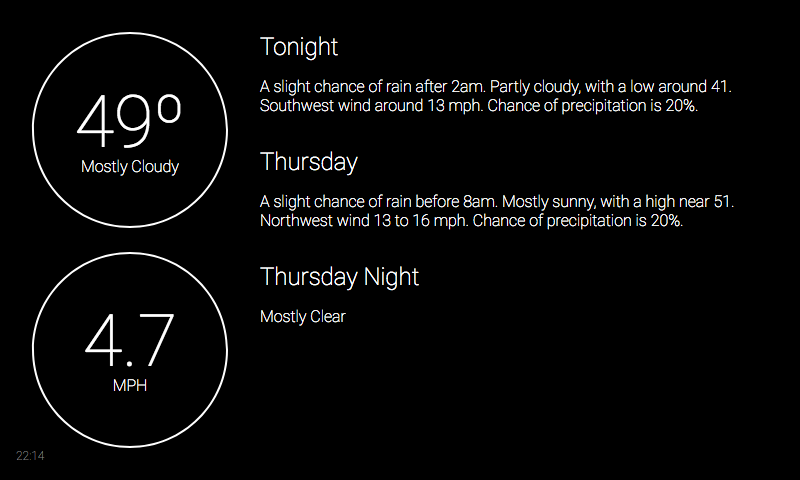
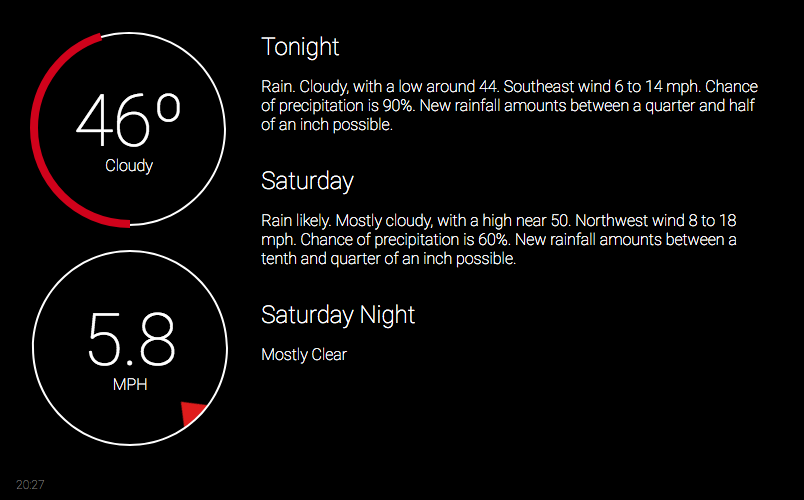
Add relative humidity indicator. Fixes #8

diff --git a/index.html b/index.html
@@ -48,11 +48,25 @@
 
             #temperature {
                 border: 2px solid #ffffff;
-                height: 192px;
-                width: 192px;
+                height: 190px;
+                width: 190px;
                 border-radius: 50%;
                 display: flex;
                 align-items: center;
+                position: relative;
+            }
+
+            #humidity {
+                position: absolute;
+                height: 196px;
+                width: 196px;
+                stroke: #D0021B;
+                fill-opacity: 0;
+                stroke-width: 8;
+                z-index: 10;
+                overflow: visible;
+                stroke-dasharray: 604;
+                transform: rotate(90deg) translateX(43px) translateY(151px);
             }
 
             #wind {
@@ -161,6 +175,22 @@
                 } 
             }
 
+            function mapRelativeHumidity(relativeHumidity, maxLength) {
+                // TODO: This seems so hacky, I'm going to open an issue for it #techdebt
+                
+                const step = maxLength / 100 
+    
+                if (relativeHumidity.toFixed(0) == 100 || relativeHumidity.toFixed(0) < 0 || relativeHumidity.toFixed(0) > 100) {
+                    return 0
+                } else {
+                    values=[]
+                    for (let x = maxLength; x > 0; x = x - step) {
+                        values.push(x.toFixed(0))
+                    }
+                    return values[relativeHumidity.toFixed(0)]
+                }
+            }
+
             function updateWeather() {
                 const current_condition_url = "https://api.weather.gov/stations/KNYC/observations/latest"
                 const forecast_url = "https://api.weather.gov/gridpoints/OKX/34,33/forecast"
@@ -174,6 +204,11 @@
                             $("#wind-arrow").addClass("hide")
                         } else {
                             $("#wind-arrow").css("transform", "rotate(" + json.properties.windDirection.value + "deg)").removeClass("hide")
+                        }
+                        if (json.properties.relativeHumidity.value == null) {
+                            $("#humidity").addClass("hide")
+                        } else {
+                            $("#humidity").css("stroke-dashoffset", mapRelativeHumidity(json.properties.relativeHumidity.value, 604)).removeClass("hide")
                         }
                     })
                     .fail(function ( jqxhr, textStatus, error ) {
@@ -210,6 +245,9 @@
             <div id="current-conditions">
                 <div id="temperature">
                     <div class="inner">
+                        <svg id="humidity" class="hide">
+                            <circle cx="0" cy="44" r="96" />
+                        </svg>
                         <p class="big-number"></p>
                         <p class="big-label"></p>
                     </div>

diff --git a/WORKLOG.md b/WORKLOG.md
@@ -20,6 +20,14 @@ Doing some clean-up work on the wind indicator...
 - Stop the flashing at 0º wind direction on page load/refresh and deal with nulls in wind direction gracefully
 - Set max width and height on container
 
+Working on the relative humidity indicator...
+
+Going to try [svg](https://stackoverflow.com/questions/42234855/is-it-possible-to-draw-a-partial-circle-outline-in-css-open-ring-shape) first. This [explaination about animated svgs](https://css-tricks.com/svg-line-animation-works/) was also helpful.
+
+This worked, but it seems a bit hacky the way I've implemented it. When I rotate the svg, I have to reposition it. I'm sure there's a way to do this by setting the proper origin or something. But, it seems to be working OK in Firefox. The other bit of hackyness is in the mapRelativeHumidity function. I'm pretty sure there is a purely mathmatical way to do that, simply -or- a build in function. I'm going to open an issue for this one to do a bit more research.
+
+Having said all that, I'm not sure that I'm wild about the whole relative humidity thing. It's not anywhere near as intuative as the wind direction. I'll leave it for now.
+
 ### 2020-04-16
 
 Let's try getting the wind direction indicator to work as designed. I really wanted to do this with CSS only (no images). While I'm sure this is possible, it was easier for me to get an image working. A problem with this is that it depends on the size of the element staying the same. Maybe I can get around this by using an SVG instead of a PNG. Anyway, the initial version is sort of working, but needs a bit of cleanup.
